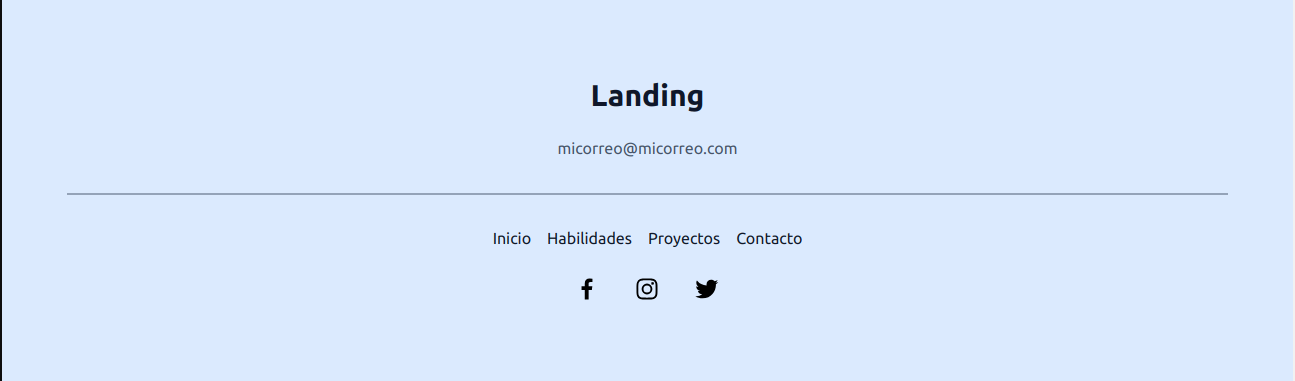
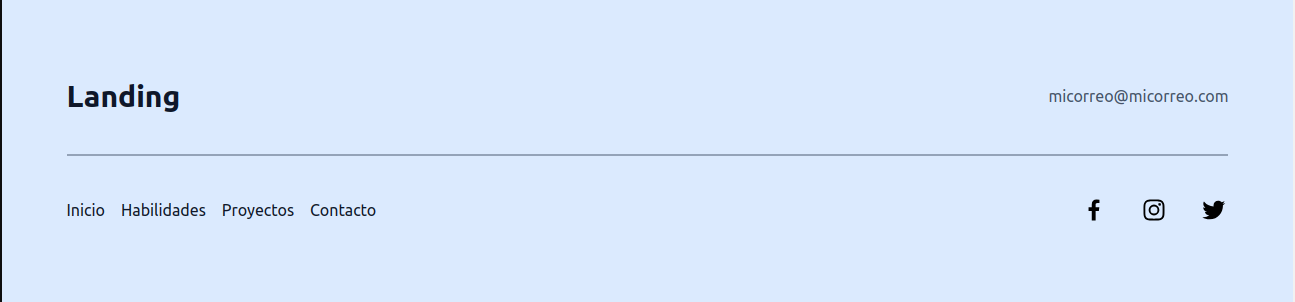
32. Finalizando el primero proyecto del curso.

diff --git a/src/css/estilos.css b/src/css/estilos.css
@@ -1086,8 +1086,28 @@ video {
     flex-direction: row;
   }
 
+  .md\:flex-row-reverse {
+    flex-direction: row-reverse;
+  }
+
+  .md\:items-center {
+    align-items: center;
+  }
+
   .md\:justify-between {
     justify-content: space-between;
+  }
+
+  .md\:pb-16 {
+    padding-bottom: 4rem;
+  }
+
+  .md\:pb-10 {
+    padding-bottom: 2.5rem;
+  }
+
+  .md\:pt-10 {
+    padding-top: 2.5rem;
   }
 
   .md\:text-left {

diff --git a/landing.php b/landing.php
@@ -169,7 +169,9 @@
 
 
 
-		<section class="wrapper py-20 grid gap-12" id="contacto">
+		<section 
+			class="wrapper py-20 grid gap-12 md:grid-flow-col auto-cols-fr items-center" 
+			id="contacto">
 			<div>
 				<h2 class="text-3xl font-bold">Dame tu correo, y te contactaré a la brevedad</h2>
 
@@ -198,14 +200,16 @@
 
 			<div class="wrapper py-20">
 
-				<section class="flex flex-col text-center gap-6 border-b-2 border-slate-400 pb-8">
+				<section class="flex flex-col text-center gap-6 border-b-2 border-slate-400 pb-8 md:flex-row md:justify-between md:items-center md:pb-10">
 					<h2 class="text-3xl text-slate-900 font-extrabold">Landing</h2>
 
 					<p class="text-slate-600">micorreo@micorreo.com</p>
 				</section>
 
 
-				<section class="flex flex-col text-center gap-6 pt-8">
+
+
+				<section class="flex flex-col text-center gap-6 pt-8 md:flex-row md:justify-between md:items-center md:pt-10">
 
 					<div class="flex justify-center gap-4 text-slate-900">
 						<a href="#inicio">Inicio</a>

diff --git a/README.md b/README.md
@@ -4,10 +4,10 @@
   <img src="https://skillicons.dev/icons?i=tailwind" alt="Dev icons" />
 </p>
 
-<p>npm run taildDev</p>
+<p align="center">npm run taildDev</p>
 
+<h4 align="center">Mobile Version</h4>  
 <p align="center">
-  <h4>Mobile Version</h4>  
   <img src="1.png" alt="Webpage" />
   <img src="2.png" alt="Webpage" />
   <img src="3.png" alt="Webpage" />
@@ -18,8 +18,8 @@
 </p>
 
 
-<p align="center">
-  <h4>Desktop Version</h4>  
+<h4 align="center">Desktop Version</h4>  
+<p align="center">  
   <img src="11.png" alt="Webpage" />
   <img src="12.png" alt="Webpage" />
   <img src="13.png" alt="Webpage" />
